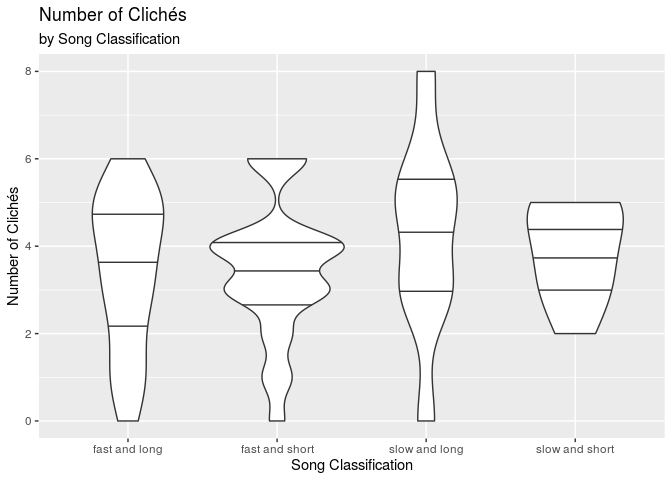
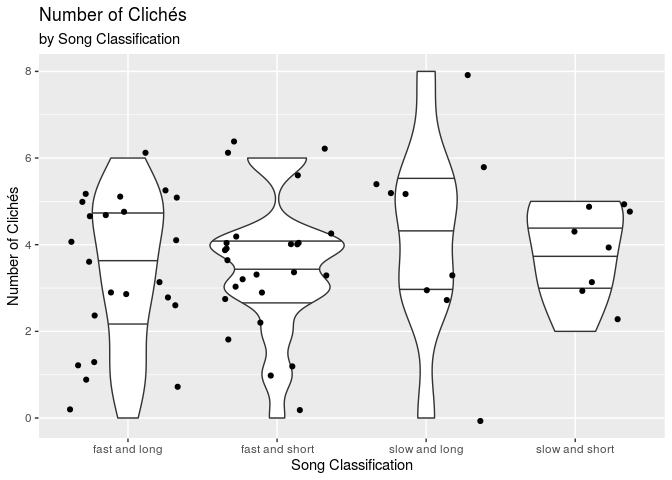
Fixed minor things in question 1 analysis

diff --git a/data-analysis/data-analysis.md b/data-analysis/data-analysis.md
@@ -17,10 +17,11 @@ fight_songs <- fight_songs %>%
 
 ### Research Question 1
 
-Our first research question is: \>"How does the tempo (`bpm`) and
-duration (`sec_duration`) of a college football team’s fight song
-predict the content of the song, specifically the number of
-clichés/tropes (`trope_count`)?
+Our first research question is:
+
+> "How does the tempo (`bpm`) and duration (`sec_duration`) of a college
+> football team’s fight song predict the content of the song,
+> specifically the number of clichés/tropes (`trope_count`)?
 
 Before we delve deeper into our analysis, let’s first take a look at the
 distributions of our two explanatory variables, `bpm` and
@@ -180,7 +181,8 @@ each classification.
 
 ``` r
 ggplot(fight_songs, mapping = aes(x = classify, y = trope_count)) +
-  geom_violin(draw_quantiles = c(.25, .5, .75)) + 
+  geom_violin(draw_quantiles = c(.25, .5, .75)) +
+  geom_jitter() +
   labs(title = "Number of Clichés", subtitle = "by Song Classification", x = "Song Classification", y = "Number of Clichés")
 ```
 
@@ -246,7 +248,8 @@ visualise(null_slow_long) +
 Based on our p-value of 0.038, which is less than alpha = 0.05, we
 reject the null hypothesis. There is convincing evidence that the median
 number of tropes for songs that are slow and long is different than the
-population average of 4.
+population average of 4. However, our sample size is very small (9
+observations), so we must be wary of our results.
 
 Now, let’s find the full linear model that predicts number of tropes
 (`trope_count`) from tempo (`bpm`) and duration (`sec_duration`).
